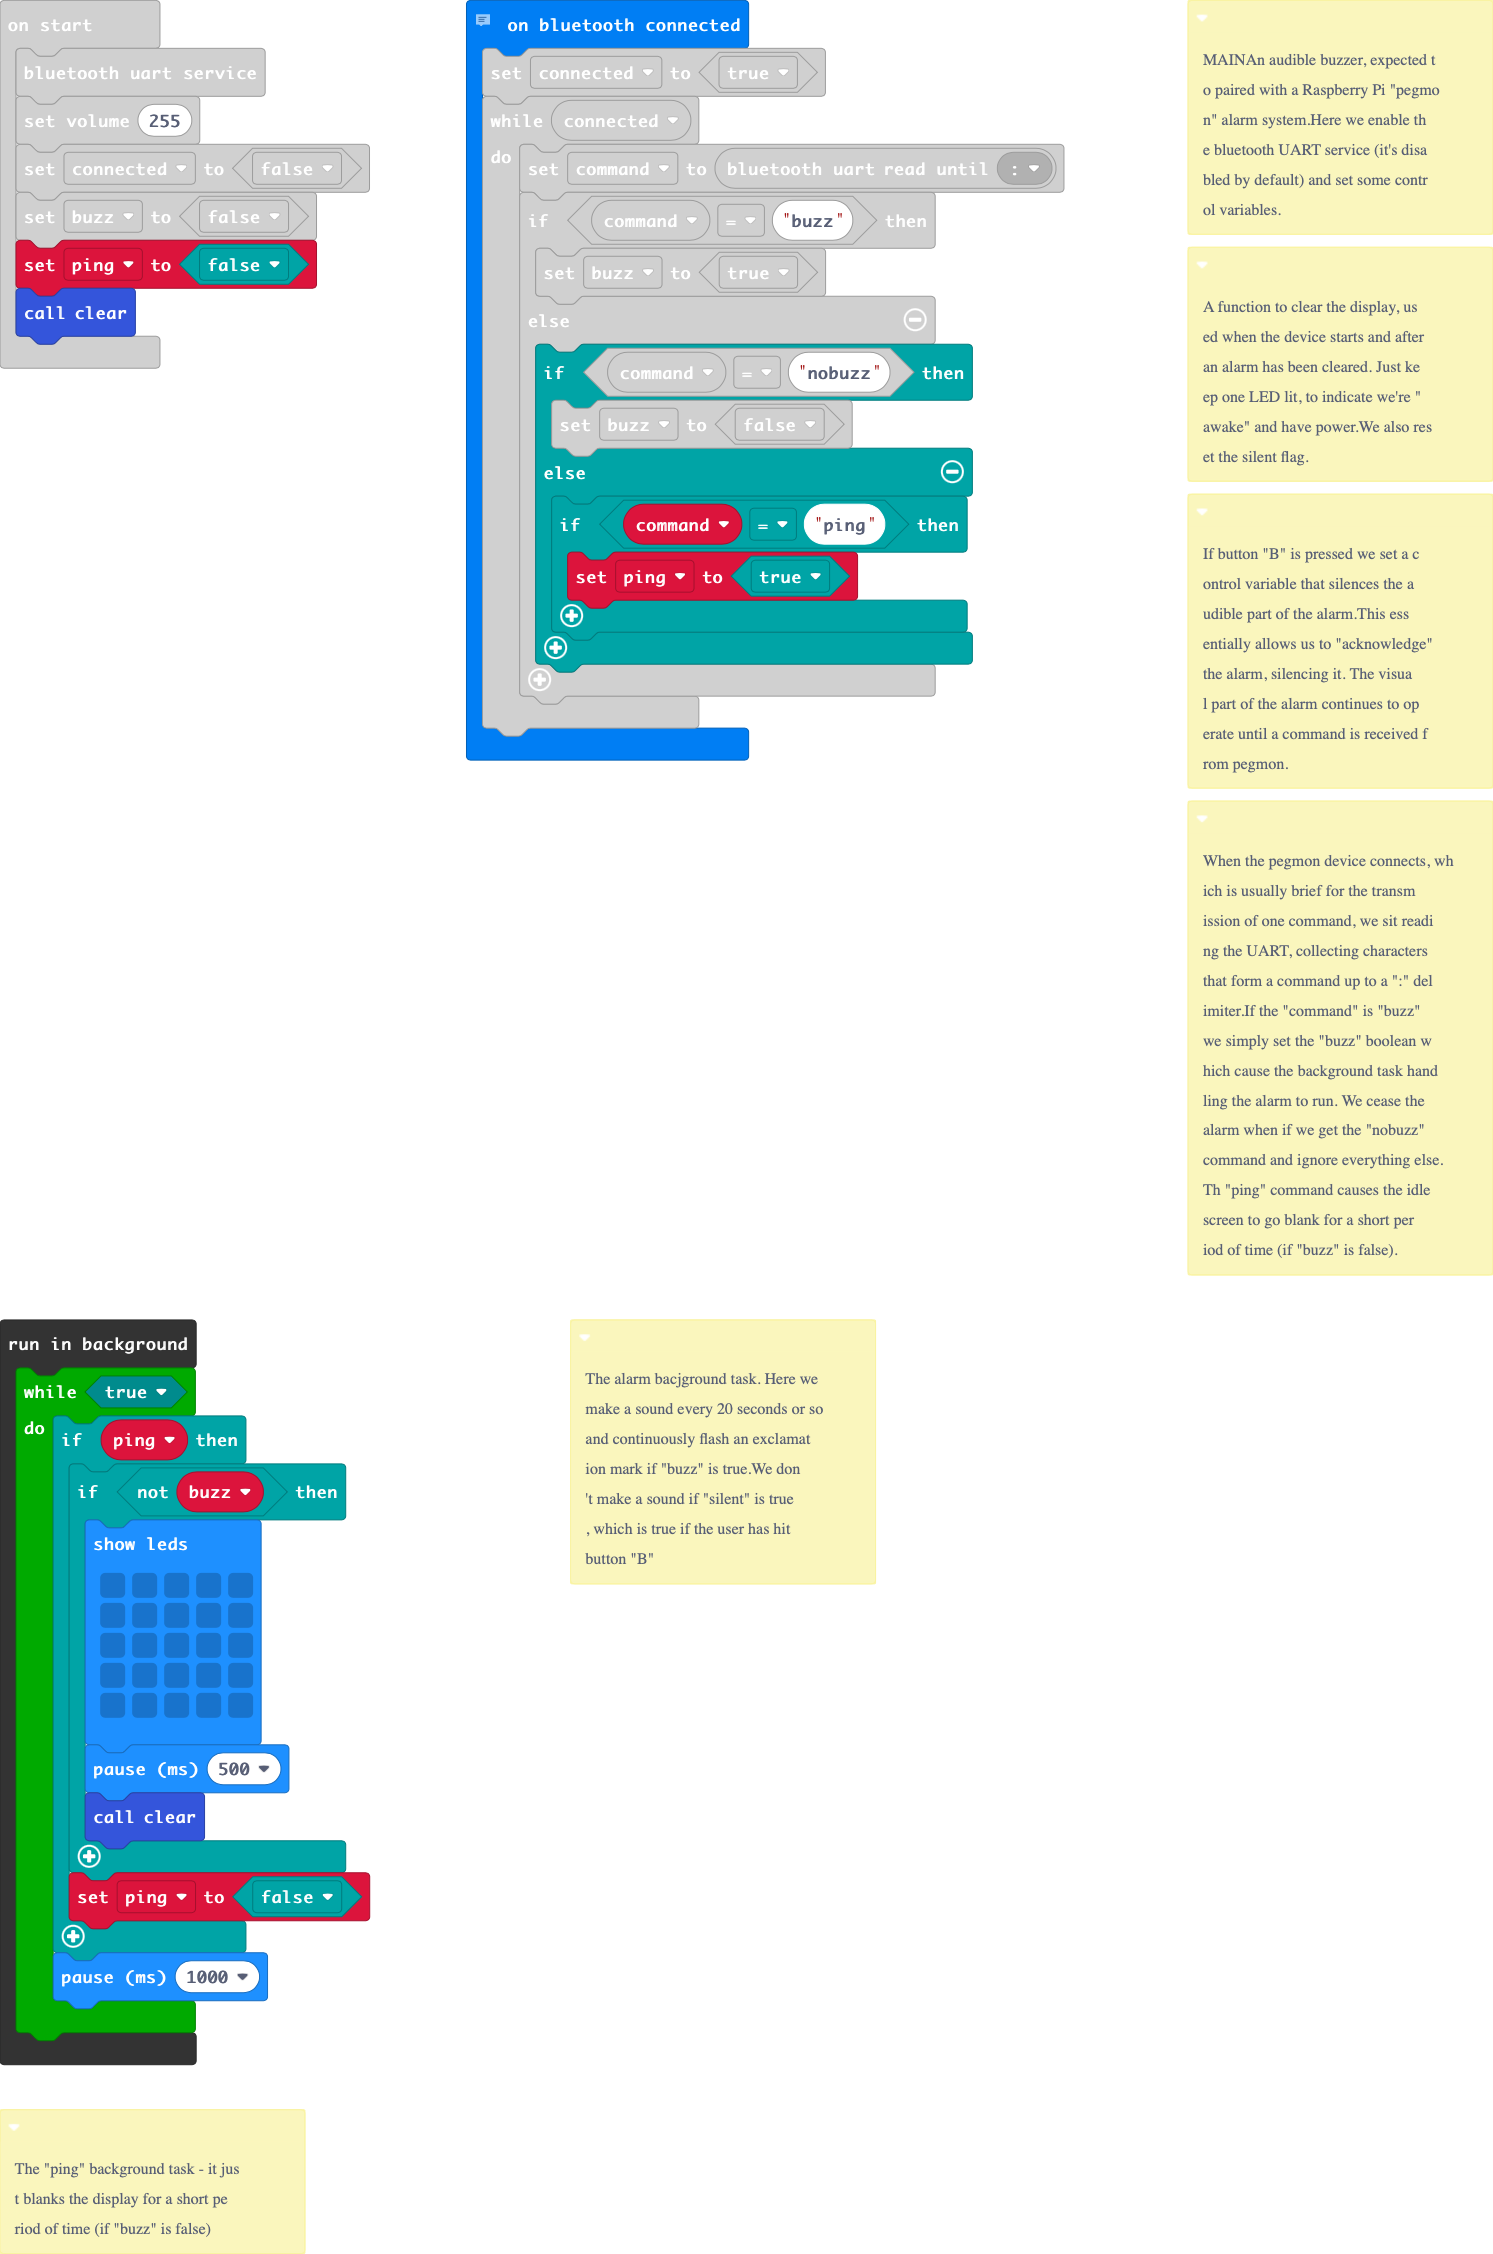
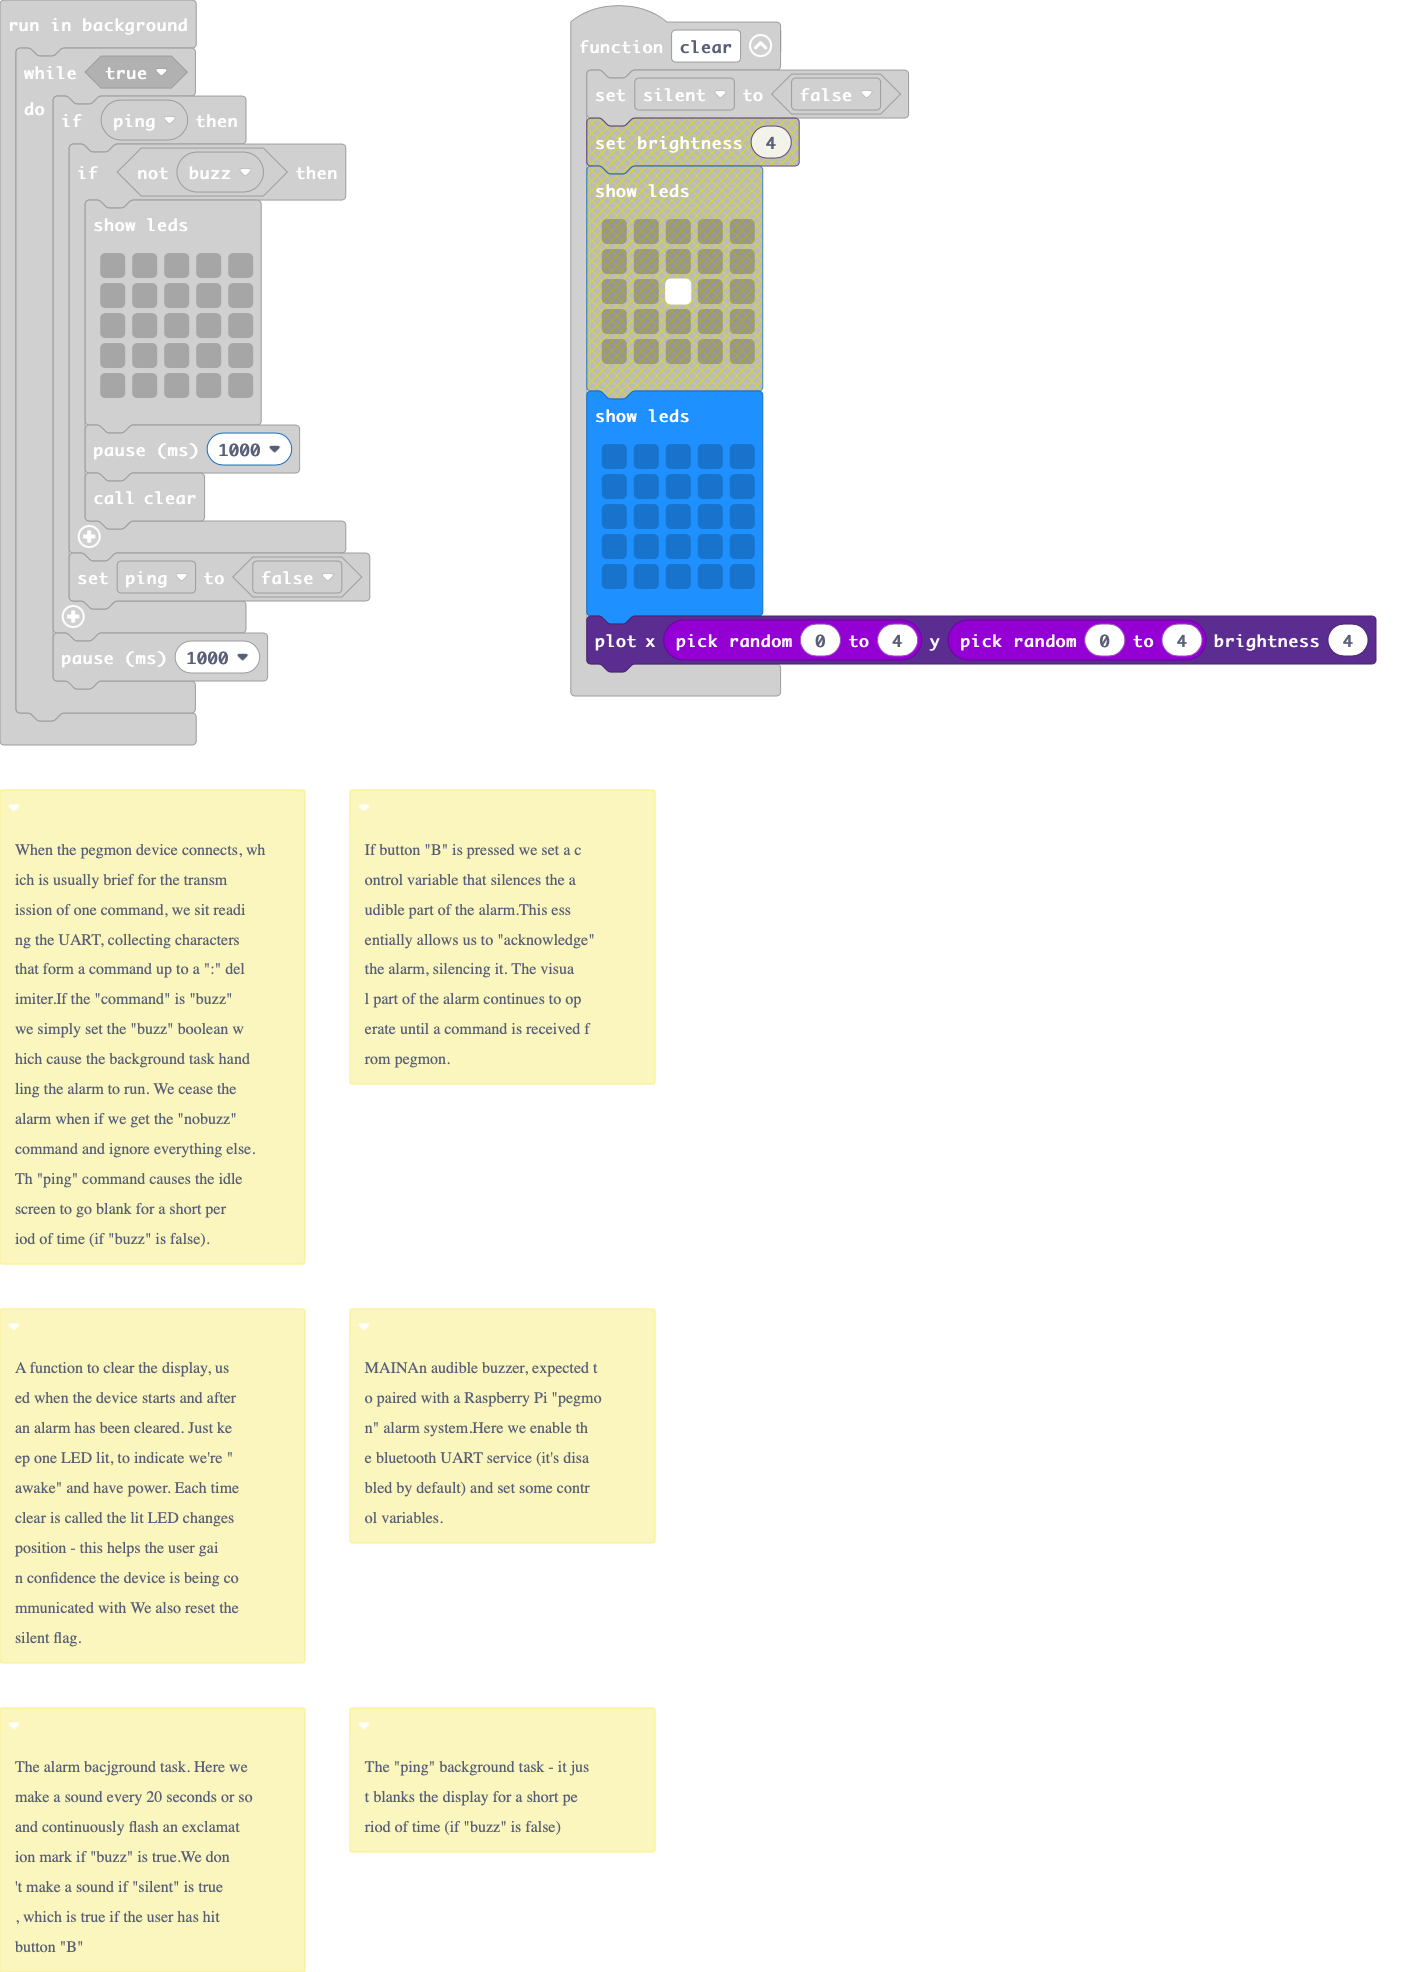
Each pin now changes pixel position

diff --git a/main.ts b/main.ts
@@ -6,11 +6,6 @@
  * Here we enable the bluetooth UART service (it's disabled by default) and set some control variables.
  */
 /**
- * A function to clear the display, used when the device starts and after an alarm has been cleared. Just keep one LED lit, to indicate we're "awake" and have power.
- * 
- * We also reset the silent flag.
- */
-/**
  * The alarm bacjground task. Here we make a sound every 20 seconds or so and continuously flash an exclamation mark if "buzz" is true.
  * 
  * We don't make a sound if "silent" is true, which is true if the user has hit button "B"
@@ -47,20 +42,27 @@ bluetooth.onBluetoothDisconnected(function () {
     connected = false
 })
 /**
+ * A function to clear the display, used when the device starts and after an alarm has been cleared. Just keep one LED lit, to indicate we're "awake" and have power. 
+ * 
+ * Each time clear is called the lit LED changes position - this helps the user gain confidence the device is being communicated with 
+ * 
+ * We also reset the silent flag.
+ */
+/**
  * If button "B" is pressed we set a control variable that silences the audible part of the alarm.
  * 
  * This essentially allows us to "acknowledge" the alarm, silencing it. The visual part of the alarm continues to operate until a command is received from pegmon.
  */
 function clear () {
     silent = false
-    led.setBrightness(4)
     basic.showLeds(`
         . . . . .
         . . . . .
-        . . # . .
+        . . . . .
         . . . . .
         . . . . .
         `)
+    led.plotBrightness(randint(0, 4), randint(0, 4), 4)
 }
 input.onButtonPressed(Button.B, function () {
     if (buzz) {
@@ -132,7 +134,7 @@ control.inBackground(function () {
                     . . . . .
                     . . . . .
                     `)
-                basic.pause(500)
+                basic.pause(1000)
                 clear()
             }
             ping = false
